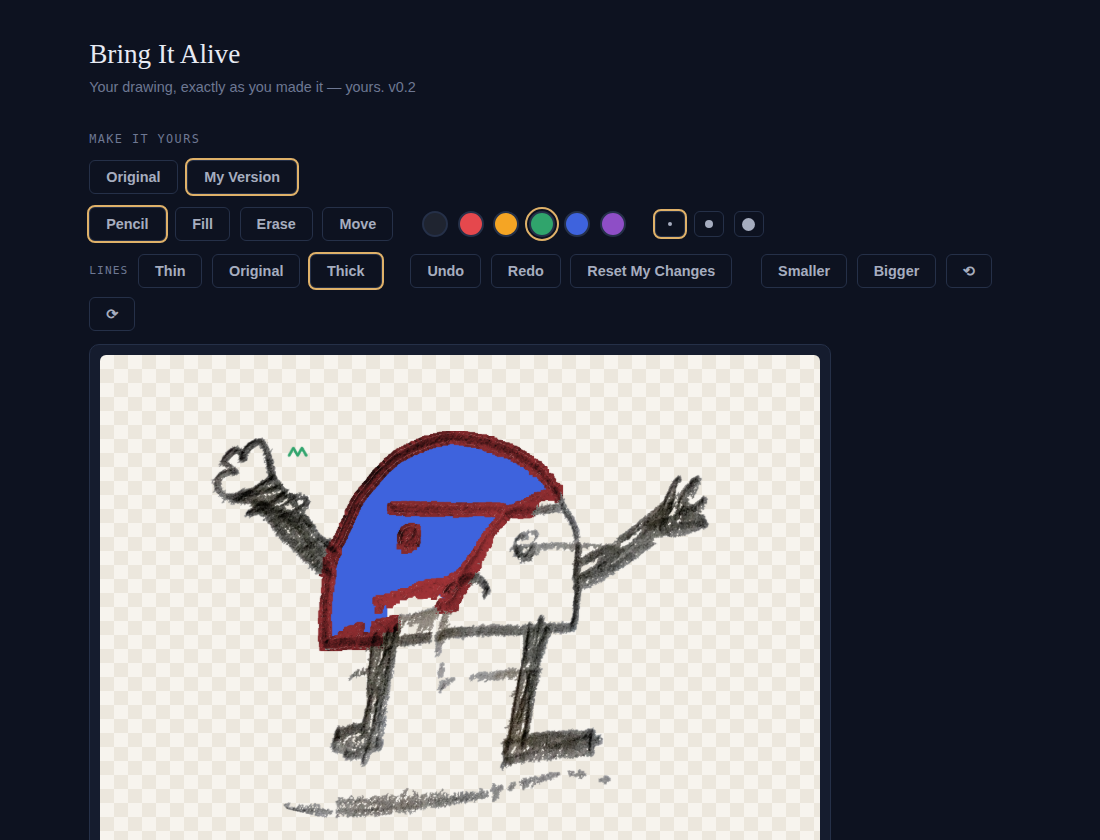
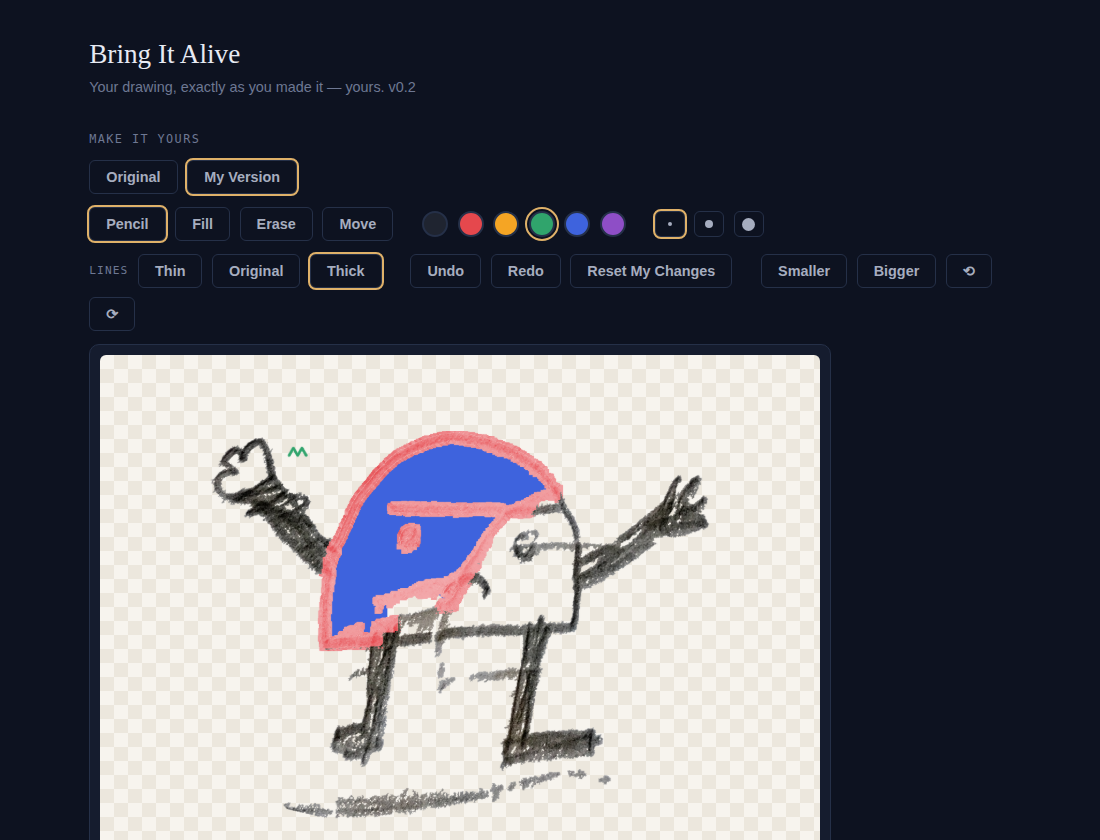
Bring It Alive: line colour is a replacement, not a wash
Corrected by the product owner on a real drawing ('it filled green on
top of black... i was looking for replacement'): the tint multiplied
the chosen colour by the ink's darkness, so on a near-black outline
every colour came out near-black and never showed. Now the chosen
colour IS the line, and the ink's darkness decides how strongly it is
laid down — hard pressure gives the colour itself, light pencil a
paler version. Texture survives, luminance order is still monotone,
alpha is never touched. The suite's Thin/Original/Thick visibility
gate widens from 'dark' (L<150) to 'visibly inked' (L<235), because a
red line is now honestly red rather than dark red. 105/105.

Claude-Session: https://claude.ai/code/session_01Mewa45nPXfG6G6ddxQ2ZF9

Changed region(s): [[0.2782, 0.4952, 0.5255, 0.7738]]

diff --git a/tools/bring-it-alive/js/creation.js b/tools/bring-it-alive/js/creation.js
@@ -66,16 +66,24 @@
             Math.round(p0[1] * 19349663)) | 0;
   }
 
-  /* The line tint: the target colour scaled by the pixel's own darkness,
-   * so a red line is red where the pencil pressed light and deep red where
-   * it pressed hard — the stroke's texture survives, and luminance ORDER
-   * is preserved (the map is monotone in the source luminance). Alpha is
-   * never touched. */
+  /* The line colour is a REPLACEMENT, not a wash. Corrected by the product
+   * owner after seeing the first mapping on a real drawing ("it filled
+   * green on top of black... i was looking for replacement"): that mapping
+   * MULTIPLIED the chosen colour by the ink's darkness, so on a near-black
+   * outline every colour came out near-black — the colour never showed.
+   * Now the chosen colour IS the line, and the ink's own darkness decides
+   * how strongly it is laid down: hard pressure → the colour itself, light
+   * pencil → a paler version (blended toward white). The stroke's texture
+   * survives, luminance ORDER is still preserved (the map is monotone in
+   * the source luminance), and alpha is never touched. */
   const TINT_REF = 230;
+  const TINT_PALE = 0.75;   // how far the lightest pencil drifts toward pale
   function tint(r, g, b, t) {
     const v = (r * 77 + g * 150 + b * 29) >> 8;
-    const f = Math.min(1, v / TINT_REF);
-    return [Math.round(t[0] * f), Math.round(t[1] * f), Math.round(t[2] * f)];
+    const f = Math.min(1, v / TINT_REF) * TINT_PALE;
+    return [Math.round(t[0] + (255 - t[0]) * f),
+            Math.round(t[1] + (255 - t[1]) * f),
+            Math.round(t[2] + (255 - t[2]) * f)];
   }
 
   // ---- stroke stamping (erase) ----------------------------------------------

diff --git a/tools/bring-it-alive/test/run-tests.js b/tools/bring-it-alive/test/run-tests.js
@@ -1079,8 +1079,12 @@ function check(name, cond, detail) {
     !!m1.interior && !!m1.inkPt,
     JSON.stringify({ interior: m1.interior, ink: m1.inkPt }));
 
-  // Boundary-visibility measure for Thin/Original/Thick: dark visible line
-  // pixels in the boundary band (fills are excluded by exact colour).
+  // Boundary-visibility measure for Thin/Original/Thick: visibly inked
+  // pixels in the boundary band (fills are excluded by exact colour,
+  // transparency by alpha). The gate is L < 235, not "dark": since line
+  // colour became a REPLACEMENT, a tinted line is bright — a red line is
+  // red, not dark red — and a darkness gate would count the line's own
+  // colour against it.
   await page.evaluate(() => {
     window.__test.lineVisibility = function (regionId, fillHex) {
       const c = window.__bia.creation, R2 = c.regions(), w = c.original.width;
@@ -1100,7 +1104,7 @@ function check(name, cond, detail) {
           if (d[p + 3] === 0) continue;
           if (fill && d[p] === fill[0] && d[p + 1] === fill[1] && d[p + 2] === fill[2]) continue;
           const L = (d[p] * 77 + d[p + 1] * 150 + d[p + 2] * 29) >> 8;
-          if (L < 150) vis++;
+          if (L < 235) vis++;
         }
       }
       return vis;
